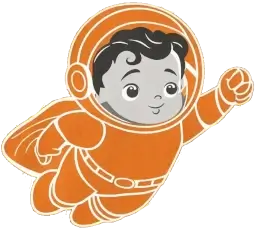
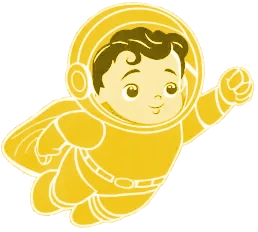
update

diff --git a/main.js b/main.js
@@ -10,6 +10,8 @@ const input = ()=>{return document.createElement('input')}
 const button = ()=>{return document.createElement('button')}
 const br = ()=>{return document.createElement('br')}
 const pre = ()=>{return document.createElement('pre')}
+const form = ()=>{return document.createElement('form')}
+const div = ()=>{return document.createElement('div')}
 const a = ()=>{return document.createElement('a')}
 
 
@@ -17,7 +19,7 @@ const app = document.querySelector('#app');
 let json = ''
 
 const title = h1()
-title.textContent='postBaby'
+title.textContent='AstronApi'
 
 const postBaby = img()
 postBaby.src = logoPostBaby
@@ -27,12 +29,24 @@ postBaby.alt='post baby logo'
 const description = p()
 description.textContent ='Test you API public no auth'
 
+
+const contForm = form()
+contForm.id='myForm'
+contForm.className='card'
+
+const theCapcha = div()
+theCapcha.className="g-recaptcha"
+theCapcha.setAttribute('data-sitekey', '6LfVMMYpAAAAAKo0DW1zLdCq4q1-LUATqF-z124d')
+
+
 const way = input()
 way.placeholder ='Enter URL'
 way.value = ''
 
 const btnTest = button()
 btnTest.textContent='Test'
+btnTest.type='submit'
+btnTest.value='Enviar formulario'
 
 const btnClean = button()
 btnClean.textContent='Clean'
@@ -76,10 +90,12 @@ app.appendChild(title)
 app.appendChild(postBaby)
 app.appendChild(description)
 app.appendChild(br())
-app.appendChild(way)
-app.appendChild(br())
-app.appendChild(btnTest)
-app.appendChild(btnClean)
+app.appendChild(contForm)
+contForm.appendChild(theCapcha)
+contForm.appendChild(way)
+contForm.appendChild(br())
+contForm.appendChild(btnTest)
+contForm.appendChild(btnClean)
 app.appendChild(br())
 app.appendChild(responseT)
 app.appendChild(br())
@@ -90,18 +106,27 @@ app.appendChild(textoCode)
 app.appendChild(repoLink)
 
 btnClean.addEventListener('click', () => {
-    responseT.textContent = ``;
-    way.value = ``;
+    responseT.textContent = ``
+    way.value = ``
 });
 
-btnTest.addEventListener('click', async () => {
-    try {
-        const data = await fetchCall(way.value);
-        updateResponseT(data);
-    } catch (error) {
-        responseT.textContent = `Error ${error}`;
+contForm.addEventListener('submit', async (event) => {
+    event.preventDefault(); // Evita que el formulario se envíe automáticamente
+
+    var response = grecaptcha.getResponse();
+    
+    if(response.length == 0) {
+        responseT.textContent = `Aseguranos que no eres un robot`
+    } else {
+    let tiempoAleatorio = Math.floor(Math.random() * 5000) + 1000
+      try {
+            const data = await fetchCall(way.value)
+            updateResponseT(data);
+        } catch (error) {
+            responseT.textContent = `Error ${error}`
+        }
     }
-});
+  });
 
 
 

diff --git a/style.css b/style.css
@@ -15,11 +15,11 @@
 
 a {
   font-weight: 500;
-  color: #646cff;
+  color: #f1c40f;
   text-decoration: inherit;
 }
 a:hover {
-  color: #535bf2;
+  color: #f1c40f;
 }
 
 body {
@@ -34,7 +34,7 @@ body {
 h1 {
   font-size: 2.5em;
   line-height: 1;
-  color: orange;
+  color: #f1c40f;
 }
 
 #app {
@@ -71,6 +71,9 @@ h1 {
 }
 
 .card {
+  display: flex;
+  flex-direction: column;
+  align-items: center;
   padding: 2em;
 }
 
@@ -113,6 +116,8 @@ button {
   border-radius: 8px;
   border: 1px solid #ffffff;
   padding: 0.6em 1.2em;
+  margin: .2em;
+  width: 20vh;
   font-size: 1em;
   font-weight: 500;
   font-family: inherit;
@@ -127,6 +132,7 @@ button:focus,
 button:focus-visible {
   outline: 4px auto -webkit-focus-ring-color;
 }
+
 
 @media (prefers-color-scheme: light) {
   :root {

diff --git a/index.html b/index.html
@@ -13,6 +13,7 @@
   </head>
   <body>
     <div id="app"></div>
+    <script src="https://www.google.com/recaptcha/api.js?hl=en" async defer></script>
     <script type="module" src="/main.js"></script>
   </body>
 </html>
